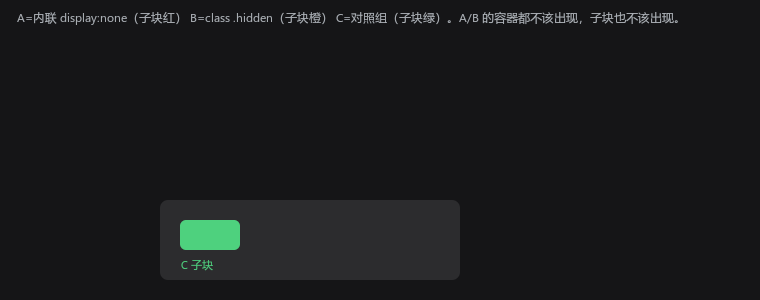
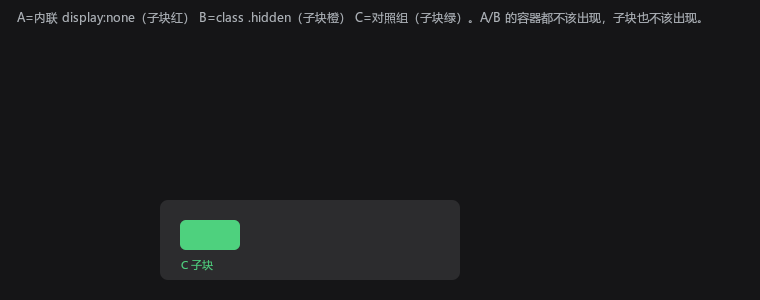
fix(font): 混排文字粗细一致 —— run 级统一字面（0.31.0）
问题：同一句 ""① 流式+折行+flex"" 里汉字粗、拉丁细。

根因（先量后改）：回退链按码点选面，汉字命中微软雅黑、flex/min/max 命中 Segoe UI。
同字号下雅黑竖干约 1.3px、Segoe UI 只有 1px。这不是渲染 bug —— GL/VK/D3D11
三端输出完全一致，是字族配对问题。

修法：PrepareScriptFace(cps) —— 一段文字里只要出现中日韩，拉丁也落到那个中日韩
字面上（faceHasGlyph 先确认覆盖）。判据放 run 级而不是全局：纯英文段落仍用
Segoe UI。绘制与测量走同一个判断（textWidth 的 run 缓存连 scriptFace 一起存），
否则量出来的宽度与画出来的来自两个字族，折行会错位。

新接口：FontEngine::faceHasGlyph(int index, uint32_t cp)

代价：拉丁 advance 变了，混排文本宽度/折行有 1px 级位移 —— 换字体栈的必然结果。
金标准重出：docs/pixels 10 例、tests/pixels-bin2d 10 例（全是含文字的用例）。

验证：make test 全绿、make pixels 通过、pixels-bin2d 18/18 容差 0、
pixels-vk / pixels-d3d11 通过、appshow 真窗口截图粗细统一

Changed region(s): [[0.0303, 0.03, 0.9382, 0.09]]

diff --git a/src/backends/binui_glyph_atlas.h b/src/backends/binui_glyph_atlas.h
@@ -214,6 +214,7 @@ struct GlyphRun {
     float ascent = 0;                 // 基线偏移
     std::vector<GlyphRunQuad> quads;  // 相对 (0, baseline) 的位置
     uint64_t lastUse = 0;             // LRU 时钟
+    int scriptFace = -1;              // 这段文字用的字面（0.30.1，见 PrepareScriptFace）
 };
 
 // ============================================================
@@ -393,9 +394,11 @@ public:
         auto it = runs_.find(key);
         if (it != runs_.end() && it->second.gen == atlasGen_) {
             it->second.lastUse = ++runClock_;
+            scriptFace_ = it->second.scriptFace;   // 命中也要恢复字面，否则调用方的状态是上一段的
             return it->second.advance;
         }
         const std::vector<uint32_t> cps = Utf8ToCodepoints(utf8);
+        PrepareScriptFace(cps);
         float w = 0;
         size_t i = 0;
         while (i < cps.size()) {
@@ -433,6 +436,9 @@ public:
         if (!host_ || utf8.empty()) return;
         uint32_t premult = color;
         PremultColor(premult);
+        // 这段文字统一字面（混排粗细一致，0.30.1）：必须在 textWidth 之前算好，
+        // 否则中心对齐用的宽度与随后画出来的宽度会来自两个不同字族。
+        PrepareScriptFace(Utf8ToCodepoints(utf8));
 
         if (centerH) x -= textWidth(size, weight, utf8, italic) / 2;
         int ascent = 0, lineH = 0;
@@ -528,6 +534,7 @@ public:
 
         built.advance = cx - originX;
         built.lastUse = ++runClock_;
+        built.scriptFace = scriptFace_;
         // 缓存上限（主题/字号一多会一路涨）：超了按 LRU 淘汰
         if (runs_.size() >= kMaxRuns && !built.quads.empty()) {
             auto victim = runs_.begin();
@@ -566,6 +573,7 @@ public:
         fontMetrics(size, weight, ascent, lineH, italic);
 
         const std::vector<uint32_t> cps = Utf8ToCodepoints(utf8);
+        PrepareScriptFace(cps);   // 整段统一字面（折行前后不变，否则一半粗一半细）
         float ly = y;
         size_t pos = 0;
         while (pos < cps.size()) {
@@ -1198,8 +1206,48 @@ private:
     // 字体服务返回 -1 = 所有候选都没有 → 用 0 号面（豆腐块是几何，跟哪个字体无关）。
     int faceIdxForCp(uint32_t cp) {
         if (!fontReady_) return 0;
+        // 混排粗细一致（0.30.1）：同一段文字里，只要出现中日韩，就让拉丁字母也落到
+        // 那个中日韩字面上。
+        //
+        // 为什么必须这么做：Windows 的常规字体栈是「Segoe UI → 微软雅黑」，于是
+        // 同一行 "① 流式+折行+flex" 里，汉字来自雅黑、拉丁来自 Segoe UI ——
+        // 同字号下雅黑的竖干约 1.3px、Segoe UI 只有 1px，肉眼就是"有的粗有的细"。
+        // 这不是渲染 bug（GL/VK/D3D11 三端完全一致，可复现），是**字族配对**问题。
+        // 判据放在 run 级（PrepareScriptFace）而不是全局：纯英文段落仍然用
+        // Segoe UI（Windows 应用的标准观感），只有混排/中文段落才统一到雅黑。
+        if (scriptFace_ >= 0 && IsLatinLikeCp(cp) && font_.faceHasGlyph(scriptFace_, cp))
+            return scriptFace_;
         const int idx = font_.faceIndexFor(cp);
         return idx < 0 ? 0 : idx;
+    }
+
+    // 中日韩（含假名/全角/CJK 标点/扩展区）。用于"这段文字是不是中文段落"。
+    static bool IsCjkCp(uint32_t cp) {
+        return (cp >= 0x2E80 && cp <= 0x9FFF) ||    // CJK 部首 + 假名 + 统一表意
+               (cp >= 0xAC00 && cp <= 0xD7AF) ||    // 韩文音节
+               (cp >= 0xF900 && cp <= 0xFAFF) ||    // CJK 兼容表意
+               (cp >= 0xFE30 && cp <= 0xFE4F) ||    // CJK 兼容形式
+               (cp >= 0xFF00 && cp <= 0xFFEF) ||    // 全角/半角形式
+               (cp >= 0x20000 && cp <= 0x3FFFF);    // 扩展 B 及以后
+    }
+    // 会从"主字体"取形的段落：ASCII 字母数字与常见拉丁标点。
+    static bool IsLatinLikeCp(uint32_t cp) {
+        if (cp < 0x80) return cp >= 0x20 && cp != 0x7F;
+        return (cp >= 0x00A0 && cp <= 0x024F);      // 拉丁补充 / 扩展 A/B
+    }
+
+    // 每段文字进来先调一次：这段里有中日韩就记下那个字面，拉丁跟着它走。
+    // 绘制与测量**必须**走同一个判断，否则量出来的宽度与实际画的宽度不一致，
+    // 折行会错位（这也是把它放在 faceIdxForCp 上游、而不是只改绘制的原因）。
+    void PrepareScriptFace(const std::vector<uint32_t>& cps) {
+        scriptFace_ = -1;
+        if (!fontReady_) return;
+        for (uint32_t cp : cps) {
+            if (!IsCjkCp(cp)) continue;
+            const int i = font_.faceIndexFor(cp);
+            if (i >= 0) scriptFace_ = i;
+            return;
+        }
     }
 
     // 设计上就不可见的码点：不画豆腐块（否则一串 emoji 里会凭空多出方框）
@@ -1241,6 +1289,8 @@ private:
     binui_font::FontEngine font_;
     bool fontReady_ = false;
     std::string asciiFont_ = "Segoe UI";
+    // 这段文字统一用的字面（-1 = 不统一，各码点各问各的）；见 PrepareScriptFace
+    int scriptFace_ = -1;
     std::unordered_map<uint64_t, std::vector<Atlas*>> atlases_;
     std::unordered_map<uint32_t, ColorAtlas*> colorAtlases_;
     std::vector<uint8_t> scratch_;   // 光栅化临时缓冲（cellW*cellH*4，BGRA）

diff --git a/include/binui_font_renderer.h b/include/binui_font_renderer.h
@@ -72,6 +72,11 @@ public:
     // 注意这不是"猜区间"：查的就是字体自报的 cmap（FT_Get_Char_Index）。
     int faceIndexFor(uint32_t cp);
 
+    // 指定链上下标的面是否含该码点（0.30.1）。用途只有一个：让**同一段文字**里的
+    // 拉丁字母跟着中日韩字面走，从而粗细一致 —— 见 binui_glyph_atlas.h 的
+    // PrepareScriptFace 注释。
+    bool faceHasGlyph(int index, uint32_t cp);
+
     // 缺失字形的兜底：一个空心方框（"豆腐块"）。
     // 语义上必须画 —— 留白是显示 bug，方框是"字体里没有这个字"的明确信号。
     // 返回 false = 字号太小画不出（调用方退化成空白 + advance）。

diff --git a/src/font/binui_font_renderer.cpp b/src/font/binui_font_renderer.cpp
@@ -216,6 +216,14 @@ const std::string& FontEngine::faceName(int index) const {
     return impl_->defaultFace;
 }
 
+bool FontEngine::faceHasGlyph(int index, uint32_t cp) {
+    if (index < 0 || impl_->fallback.empty()) return false;
+    if (static_cast<size_t>(index) >= impl_->fallback.size()) return false;
+    FT_Face f = Impl::probeFace(impl_, impl_->fallback[static_cast<size_t>(index)]);
+    if (!f) return false;
+    return FT_Get_Char_Index(f, cp) != 0;
+}
+
 int FontEngine::faceIndexFor(uint32_t cp) {
     auto it = impl_->coverCache.find(cp);
     if (it != impl_->coverCache.end()) return it->second;

diff --git a/CHANGELOG.md b/CHANGELOG.md
@@ -5,6 +5,49 @@
 与语义化版本不是一回事——**格式号只在二进制布局变化时递增**。
 
 
+## [0.31.0] - 2026-11-19 【格式 v34 不变】
+
+**混排文字的粗细一致了** —— 修的是"同一句里汉字粗、拉丁细"的观感问题。
+
+### 根因（先量后改）
+
+Windows 的常规字体栈是「Segoe UI → 微软雅黑」，回退链按**码点**选面，于是同一行
+`① 流式+折行+flex` 里：汉字来自雅黑，`flex` / `min/max` 来自 Segoe UI。
+同字号下雅黑的竖干约 1.3px、Segoe UI 只有 1px，肉眼就是"有的粗有的细"。
+
+**这不是渲染 bug**：GL / VK / D3D11 三端输出完全一致（逐像素可复现），
+字体引擎本来就这么取形。是**字族配对**问题。
+
+### 修法 —— run 级统一字面
+
+`PrepareScriptFace(cps)`：一段文字里只要出现中日韩，就让拉丁字母也落到那个中日韩
+字面上（`faceHasGlyph` 先确认该面确实有这个字，没有再回退）。
+
+- 判据放在 **run 级**而不是全局：纯英文段落仍然用 Segoe UI（Windows 应用的标准观感），
+  只有混排/中文段落才统一到雅黑。全局换序（雅黑优先）试过了，英文界面会整体变样。
+- 绘制与**测量**必须走同一个判断 —— 否则 `textWidth` 与画出来的前进量来自两个字族，
+  折行位置会错。所以 `textWidth` 的 run 缓存里连 `scriptFace` 一起存，命中时也恢复。
+- `drawTextWrapped` 整段算一次（折行前后不能换字面，否则一行粗一行细）。
+
+### 新接口
+
+- `FontEngine::faceHasGlyph(int index, uint32_t cp)` —— 指定链上字面是否含该码点。
+
+### 代价（如实记账）
+
+拉丁的 **advance 变了**（雅黑与 Segoe UI 字宽不同），所以混排文本的宽度、折行位置
+会有 1px 级位移。这是"换字体栈"的必然结果，不是回归。像素金标准因此重出：
+`docs/pixels` 10 例、`tests/pixels-bin2d` 10 例（全部是含文字的用例）。
+
+### 验收
+
+| 项 | 结果 |
+|---|---|
+| `make test`（6 套件） | 全绿 |
+| `make pixels` | 通过（10 例金标准已按新字面重出） |
+| `make pixels-bin2d` | 18/18 逐字节一致（容差 0） |
+| `make pixels-vk` / `pixels-d3d11` | 通过（与 GL 现场比对，0 像素） |
+| 真窗口 | 默认 `appshow.exe` 截图：`① 流式+折行+flex ② min/max 钳制` 一行粗细统一 |
 ## [0.30.0] - 2026-11-19 【格式 v34 不变】
 
 **原语级探针** —— 让"这一帧的钱花在哪"变成可读的数字，而不是拿别的基准反推等价解。

diff --git a/README.md b/README.md
@@ -1,7 +1,7 @@
 # binUI - 跨平台描述式 UI 核心
 
 [![CI](https://github.com/Hsiakey/binUI/actions/workflows/ci.yml/badge.svg)](https://github.com/Hsiakey/binUI/actions/workflows/ci.yml)
-[![Version](https://img.shields.io/badge/version-0.30.0-blue.svg)](CHANGELOG.md)
+[![Version](https://img.shields.io/badge/version-0.31.0-blue.svg)](CHANGELOG.md)
 [![License: MIT](https://img.shields.io/badge/license-MIT-blue.svg)](LICENSE)
 [![C++17](https://img.shields.io/badge/C%2B%2B-17-blue.svg)](#构建)
 [![Format v34](https://img.shields.io/badge/binUI%20format-v34-orange.svg)](include/binui_format.h)
